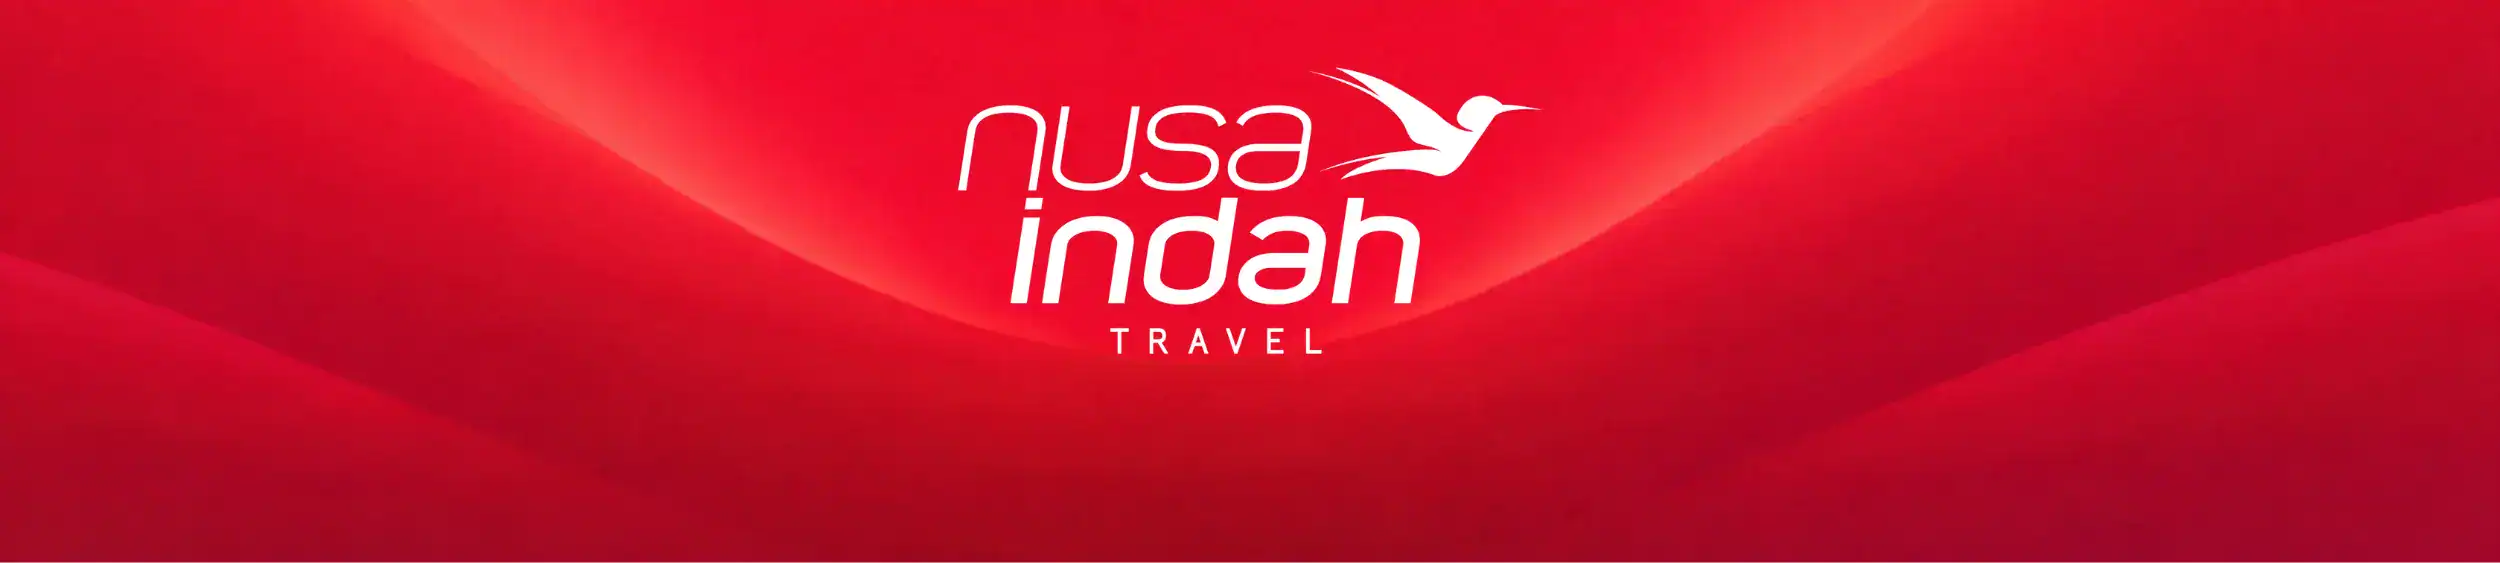
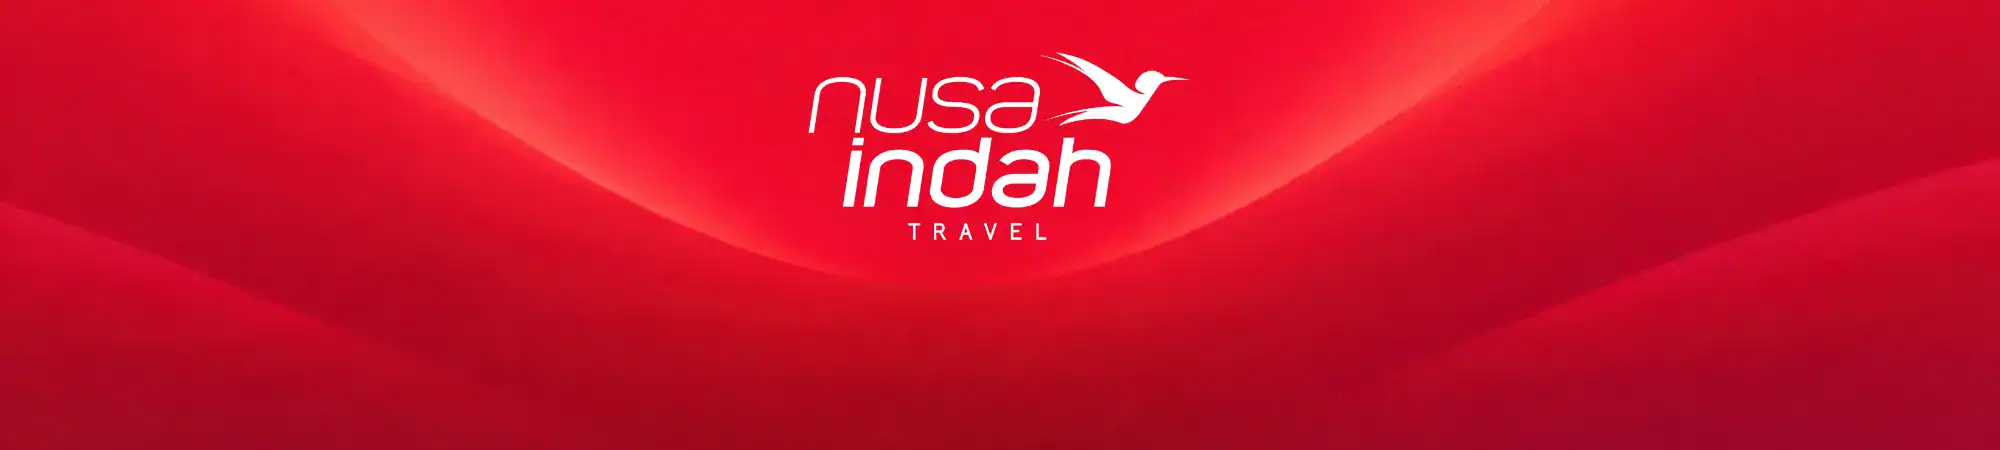
fix: change home hero image, and all ota title to megaterra

Changed region(s): [[0.372, 0.1244, 0.62, 0.6533], [0.0, 0.9956, 1.0, 1.0]]

diff --git a/public/css/pages/home.css b/public/css/pages/home.css
@@ -1,7 +1,7 @@
 /* Home */
 .hero-banner {
   width: 100%;
-  min-height: 40vh;
+  min-height: 50vh;
 
   position: relative;
 
@@ -44,7 +44,6 @@
 
 #hero-tour-travel {
   background-image: url(/images/hero-banners/nusa-indah-hero.webp);
-  background-position: center 40%;
 }
 
 #hero-golf {
